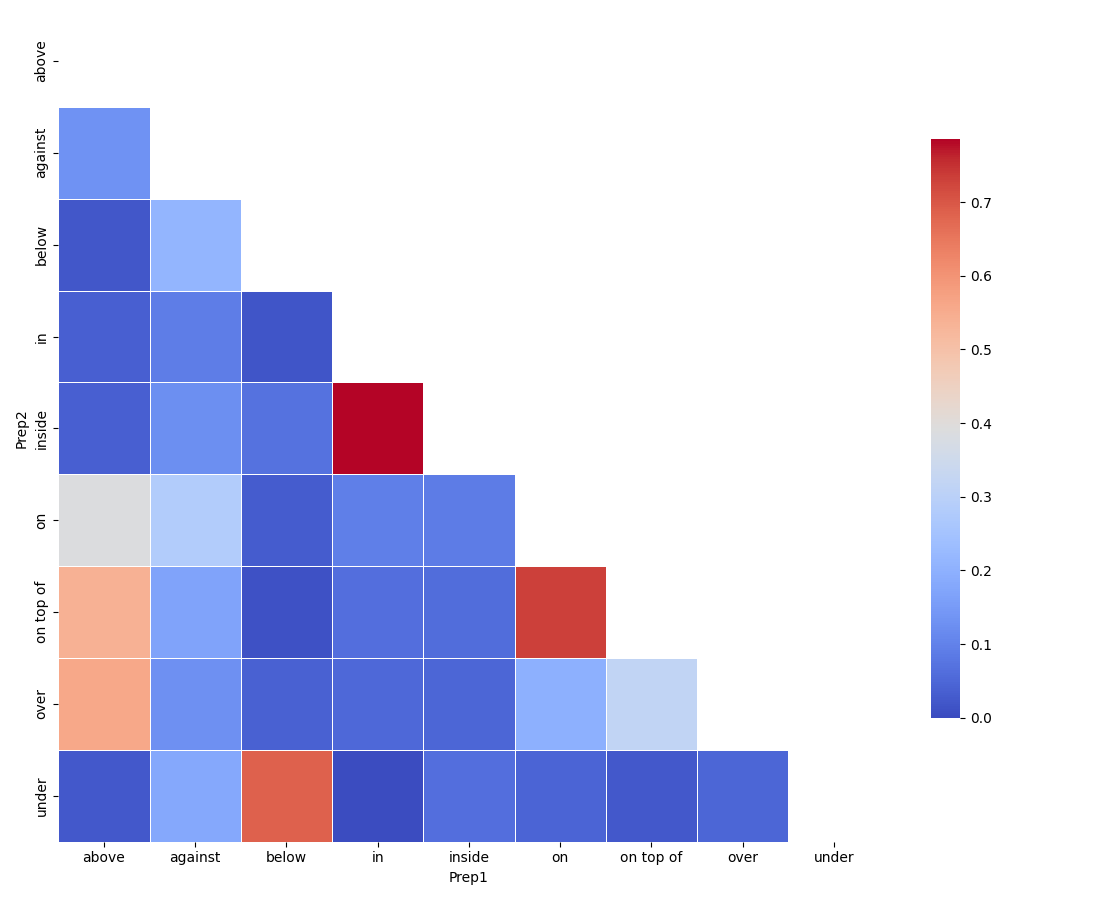
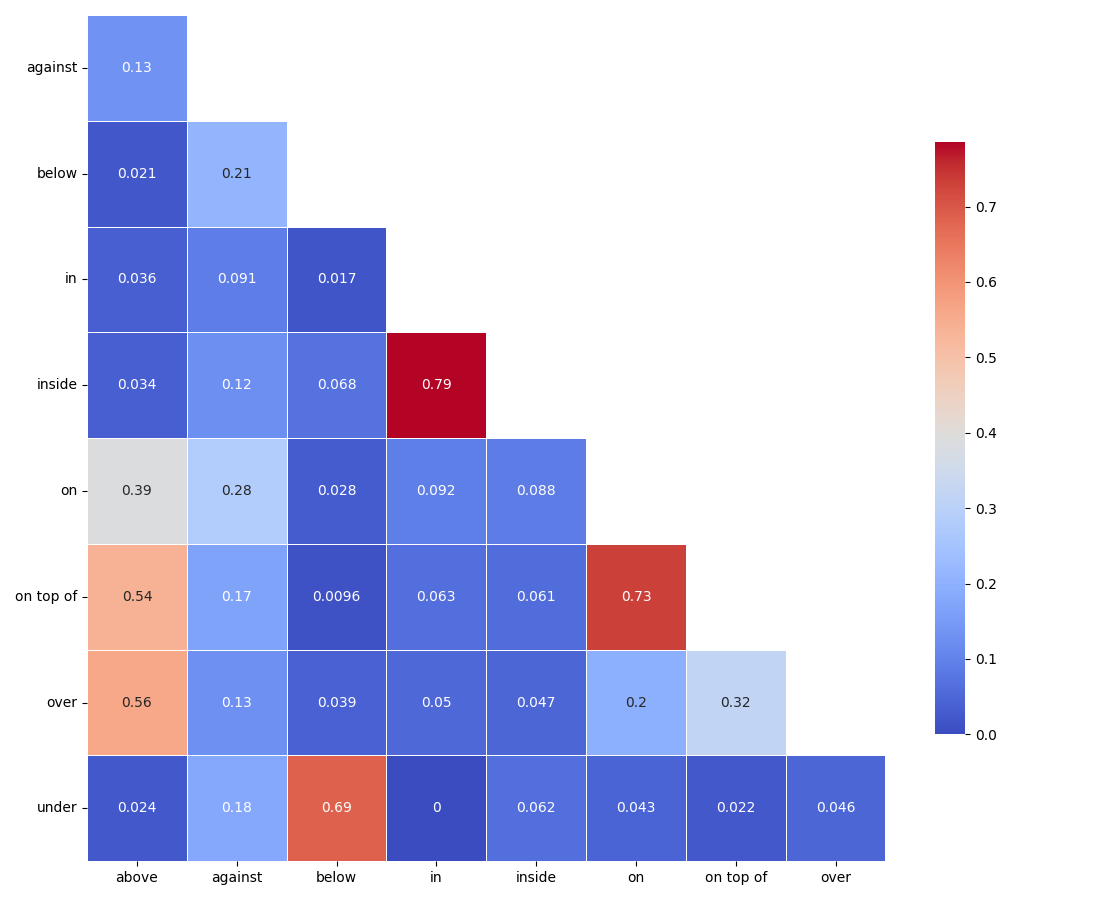
Update preposition relatedness diagram

diff --git a/Analysis/make_matrix_showing_preposition_overlap.py b/Analysis/make_matrix_showing_preposition_overlap.py
@@ -22,16 +22,15 @@ def prepare_data():
         p2_data = get_preposition_data(p2)
         selected_p2 = p2_data[p2_data['selected_atleast_once'] == 1]
 
-        in_either_data =pd.concat([selected_p1,selected_p2])
-        in_either_data.drop_duplicates(subset=['Unique_config'], keep='first',inplace=True)
+        in_either_data = pd.concat([selected_p1, selected_p2])
+        in_either_data.drop_duplicates(subset=['Unique_config'], keep='first', inplace=True)
         in_both_data = selected_p1[selected_p1['Unique_config'].isin(selected_p2['Unique_config'])]
 
         value = float(len(in_both_data.index)) / len(in_either_data.index)
 
         if p1 == p2:
-            assert value==1
+            assert value == 1
         return value
-
 
     ## Make df
     prep1_list = []
@@ -41,40 +40,43 @@ def prepare_data():
         for p2 in preposition_list:
             prep1_list.append(p1)
             prep2_list.append(p2)
-            values.append(get_value_for_prep_pair(p1,p2))
+            values.append(get_value_for_prep_pair(p1, p2))
 
-
-
-
-    out_data = pd.DataFrame({'Prep1':prep1_list,'Prep2':prep2_list,'Values':values})
+    out_data = pd.DataFrame({'Prep1': prep1_list, 'Prep2': prep2_list, 'Values': values})
     file = os.path.join('2019 study', 'preposition data', 'preposition_relations.csv')
 
     out_data.to_csv(file)
 
 
 def your_function():
-    # TODO: make this look nicer, drop final prepositions in labels
-    data_file =os.path.join('2019 study', 'preposition data', 'preposition_relations.csv')
+    data_file = os.path.join('2019 study', 'preposition data', 'preposition_relations.csv')
 
     data = pd.read_csv(data_file)
     result = data.pivot(index='Prep2', columns='Prep1', values='Values')
-    # # Generate a mask for the upper triangle
-    mask = np.zeros_like(result, dtype=np.bool)
-    mask[np.triu_indices_from(mask)] = True
+    # mask
+    mask = np.triu(np.ones_like(result, dtype=np.bool))  # adjust mask and df
+    mask = mask[1:, :-1]
+    corr = result.iloc[1:, :-1].copy()
 
     # Set up the matplotlib figure
     f, ax = plt.subplots(figsize=(11, 9))
 
     # Draw the heatmap with the mask and correct aspect ratio
     sns.heatmap(
-        result,
+        corr,
         mask=mask,
-        cmap ="coolwarm",
+        cmap="coolwarm",
         # vmax=1,
+        annot=True,
         linewidths=0.5,
         cbar_kws={"shrink": 0.7},
         ax=ax,
     )
+    plt.xlabel('')
+    plt.ylabel('')
+    # plt.title('Preposition Co-occurrence Matrix',size=20)
+    # yticks
+    plt.yticks(rotation=0)
     file = os.path.join('2019 study', 'preposition data', 'preposition_relations.png')
     f.tight_layout()
     plt.savefig(file)
